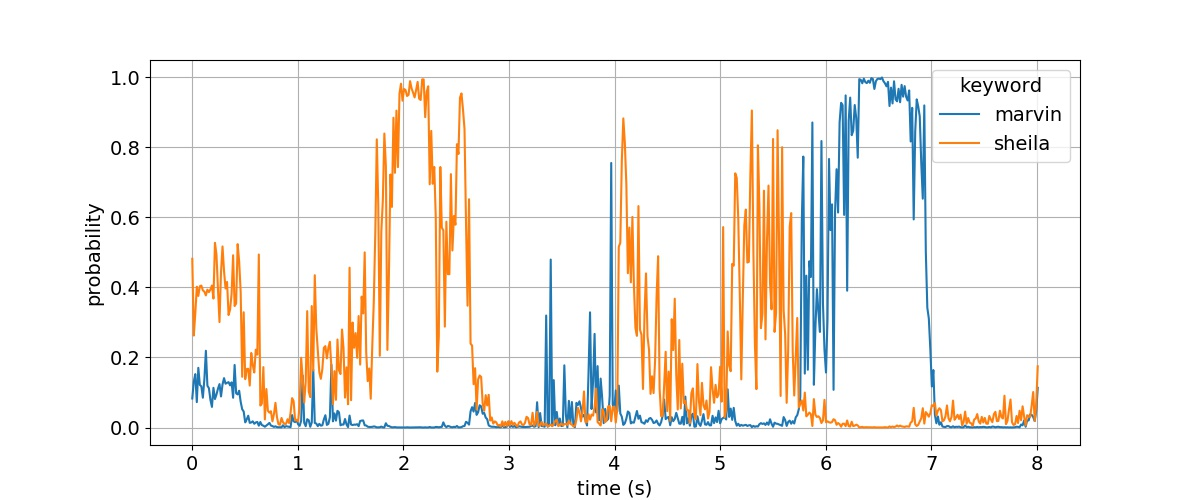
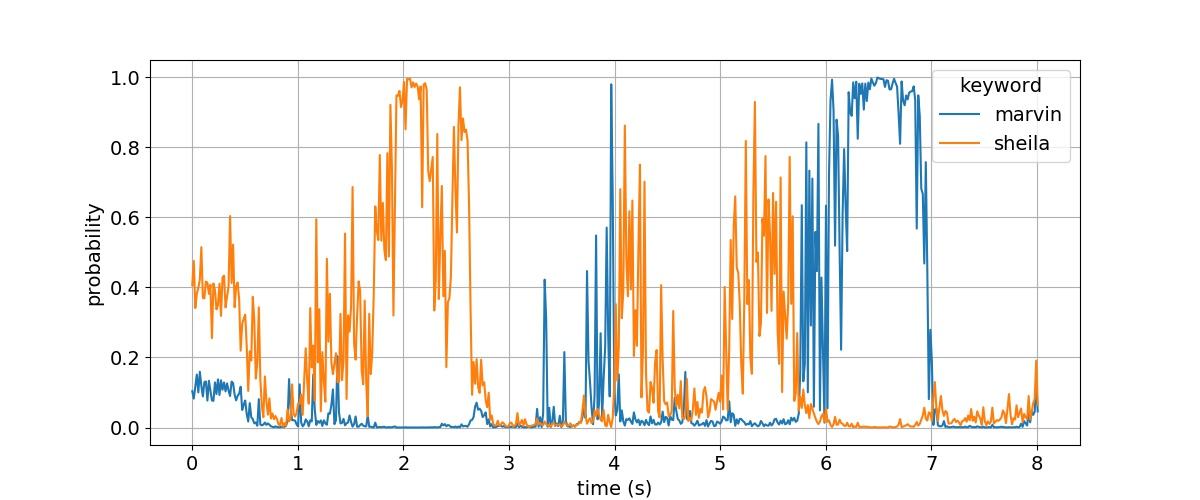
fix model download

Changed region(s): [[0.1542, 0.15, 0.8633, 0.87], [0.7708, 0.51, 0.8017, 0.57]]

diff --git a/test.py b/test.py
@@ -49,7 +49,7 @@ def test():
 
     for i in range(num_predicts):
         with torch.no_grad():
-            logits, hidden = model(spec[:, i:i + params['time_steps']], hidden)
+            logits, _ = model(spec[:, i:i + params['time_steps']])
             probs = torch.nn.functional.softmax(logits.detach(), dim=-1).cpu().numpy()
 
         keyword_probs[i] = probs[:, 1:]
